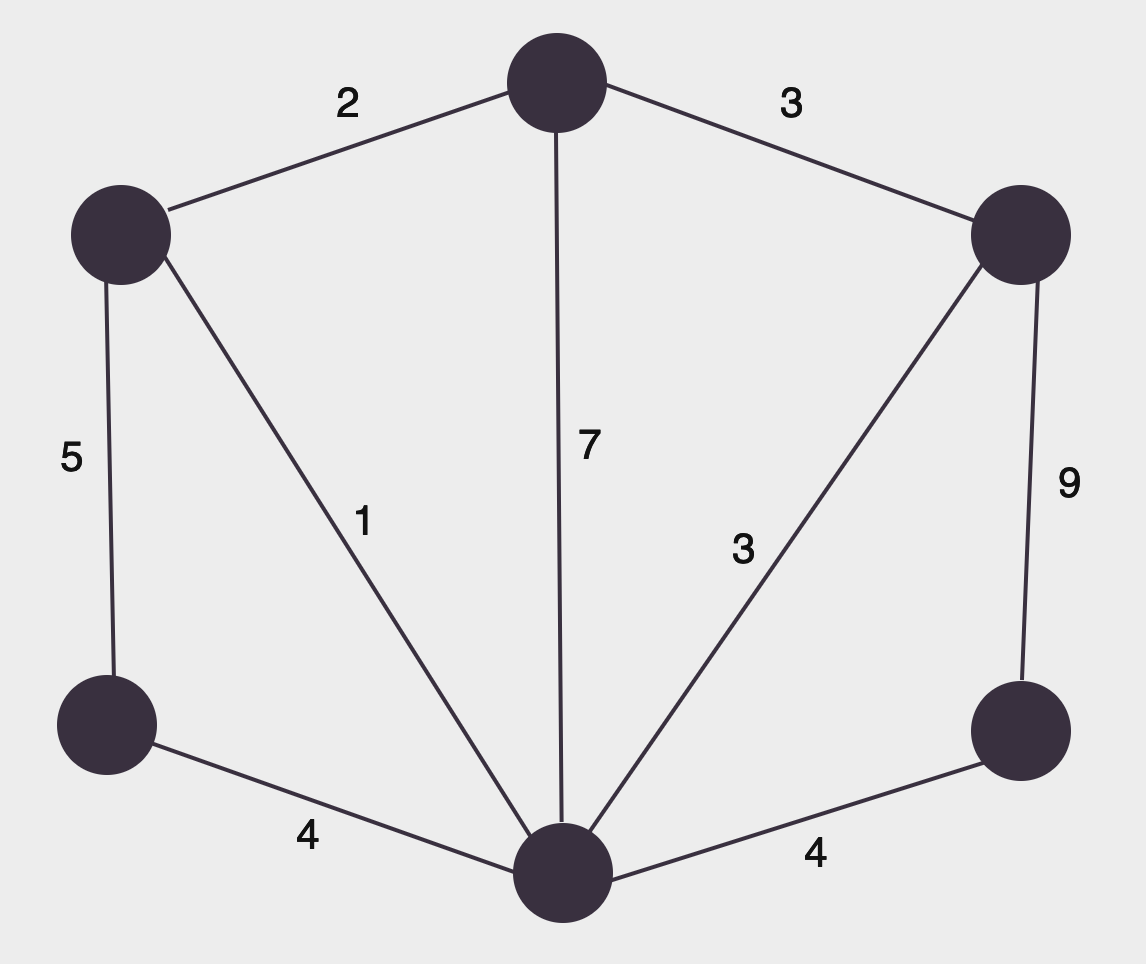
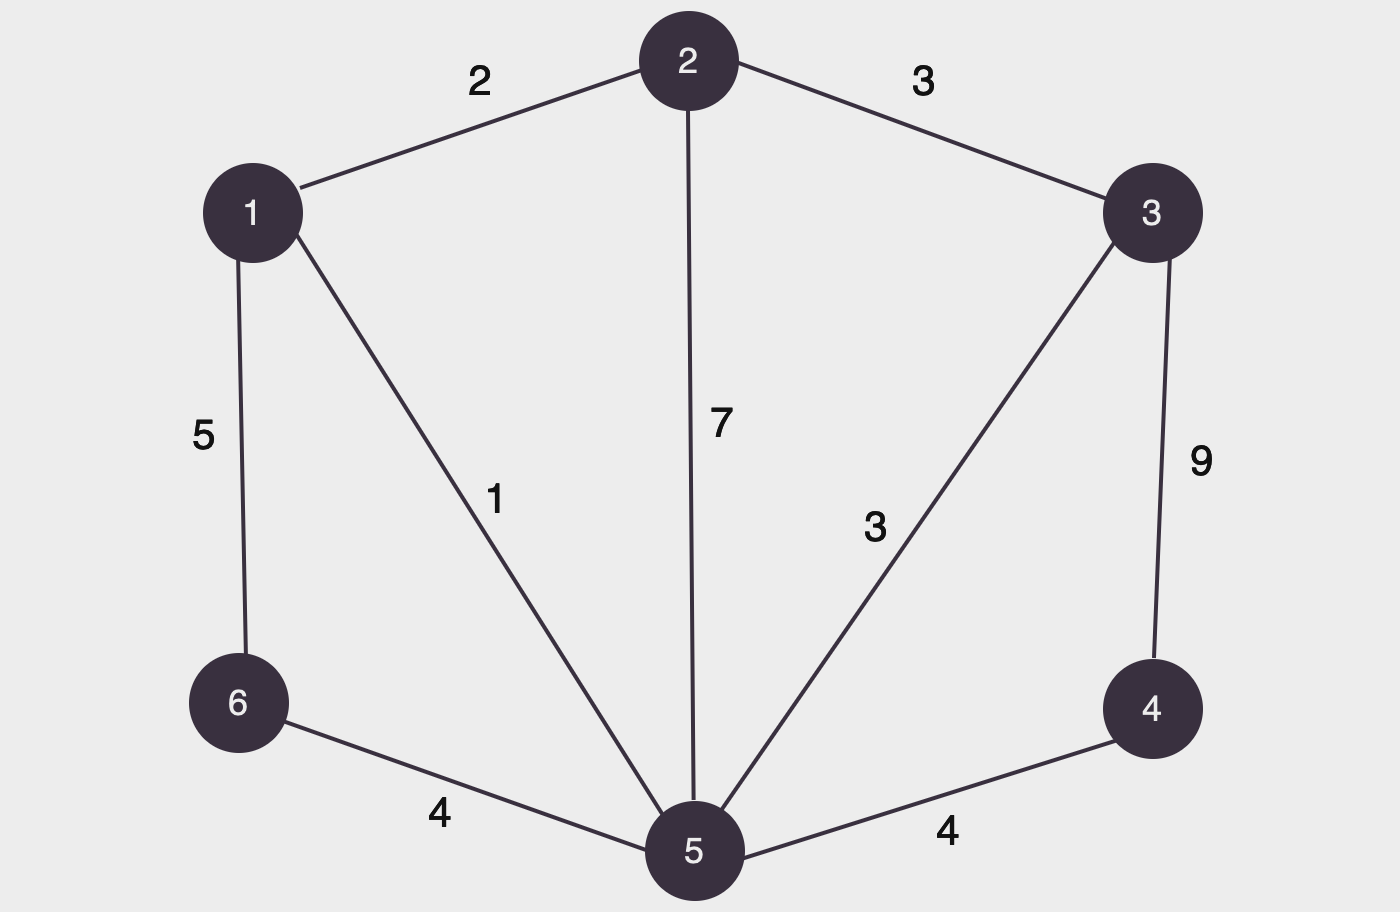
reajusta imagens kruskal

diff --git a/Python/kruskal.md b/Python/kruskal.md
@@ -34,39 +34,37 @@ Para isso podemos utilizar a teoria dos conjuntos! Podemos representar cada vér
 
 Sendo assim, podemos utilizar um algoritmo que já vimos anteriormente, o algoritmo de [Union-Find](union_find.md), vamos lembrar também que esse algoritmo é muito eficiente (`O(log n)`), para verificar se uma aresta forma um ciclo.
 
-Vamos entender melhor simulando o algoritmo de Kruskal no grafo acima (agora com os vértices enumerados):
+Vamos entender melhor simulando o algoritmo de Kruskal no grafo visto acima, as arestas listadas em ordem crescente de peso são: (1, 5), (1, 2), (2, 3), (3, 5), (4, 5), (5, 6), (1, 6), (2, 5), (3, 4)
 
-<figure><img src="../assets/krs4.png" alt="mesmo grafo anterior com os vértices enumerados"><figcaption></figcaption></figure>
-
-As arestas listadas em ordem crescente de peso são: (1, 5), (1, 2), (2, 3), (3, 5), (4, 5), (5, 6), (1, 6), (2, 5), (3, 4)
+<figure><img src="../assets/krs1.png" alt="mesmo grafo anterior com os vértices enumerados"><figcaption></figcaption></figure>
 
 Começamos pela menor aresta, como os vértices 1 e 5 não estão no mesmo conjunto, adicionamos a aresta (1, 5) à árvore geradora mínima:
 
-<figure><img src="../assets/krs5.png" alt="adicionando a aresta (1, 5) com peso 1"><figcaption></figcaption></figure>
+<figure><img src="../assets/krs4.png" alt="adicionando a aresta (1, 5) com peso 1"><figcaption></figcaption></figure>
 
 A próxima aresta é (1, 2), como os vértices 1 e 2 não estão no mesmo conjunto, adicionamos a aresta (1, 2) à árvore geradora mínima:
 
-<figure><img src="../assets/krs6.png" alt="adicionando a aresta (1, 2) com peso 2"><figcaption></figcaption></figure>
+<figure><img src="../assets/krs5.png" alt="adicionando a aresta (1, 2) com peso 2"><figcaption></figcaption></figure>
 
 A próxima aresta é (2, 3), como os vértices 2 e 3 não estão no mesmo conjunto, adicionamos a aresta (2, 3) à árvore geradora mínima:
 
-<figure><img src="../assets/krs7.png" alt="adicionando a aresta (2, 3) com peso 3"><figcaption></figcaption></figure>
+<figure><img src="../assets/krs6.png" alt="adicionando a aresta (2, 3) com peso 3"><figcaption></figcaption></figure>
 
 A próxima aresta é (3, 5), porém perceba que os vértices 3 e 5 estão no mesmo conjunto, então não podemos adicionar essa aresta, pois ela formaria um ciclo:
 
-<figure><img src="../assets/krs8.png" alt="analisamos a aresta (3, 5) mas não adicionamos ela"><figcaption></figcaption></figure>
+<figure><img src="../assets/krs7.png" alt="analisamos a aresta (3, 5) mas não adicionamos ela"><figcaption></figcaption></figure>
 
 A próxima aresta é (4, 5), como os vértices 4 e 5 não estão no mesmo conjunto, adicionamos a aresta (4, 5) à árvore geradora mínima:
 
-<figure><img src="../assets/krs9.png" alt="adicionando a aresta (5, 4) com peso 4"><figcaption></figcaption></figure>
+<figure><img src="../assets/krs8.png" alt="adicionando a aresta (5, 4) com peso 4"><figcaption></figcaption></figure>
 
 A próxima aresta é (5, 6), como os vértices 5 e 6 não estão no mesmo conjunto, adicionamos a aresta (5, 6) à árvore geradora mínima:
 
-<figure><img src="../assets/krs10.png" alt="adicionando a aresta (5, 6) com peso 4"><figcaption></figcaption></figure>
+<figure><img src="../assets/krs9.png" alt="adicionando a aresta (5, 6) com peso 4"><figcaption></figcaption></figure>
 
 Como já selecionamos |V| - 1 arestas, podemos parar por aqui, finalmente, a árvore geradora mínima do grafo é:
 
-<figure><img src="../assets/krs11.png" alt="árvore geradora mínima final com as arestas (1, 2), (2, 3), (1, 5), (5, 6) e (5, 4)"><figcaption></figcaption></figure>
+<figure><img src="../assets/krs10.png" alt="árvore geradora mínima final com as arestas (1, 2), (2, 3), (1, 5), (5, 6) e (5, 4)"><figcaption></figcaption></figure>
 
 Note que ela é diferente da árvore geradora mínima que mostramos anteriormente, mas ambas têm o mesmo peso total, que é 14.
 
